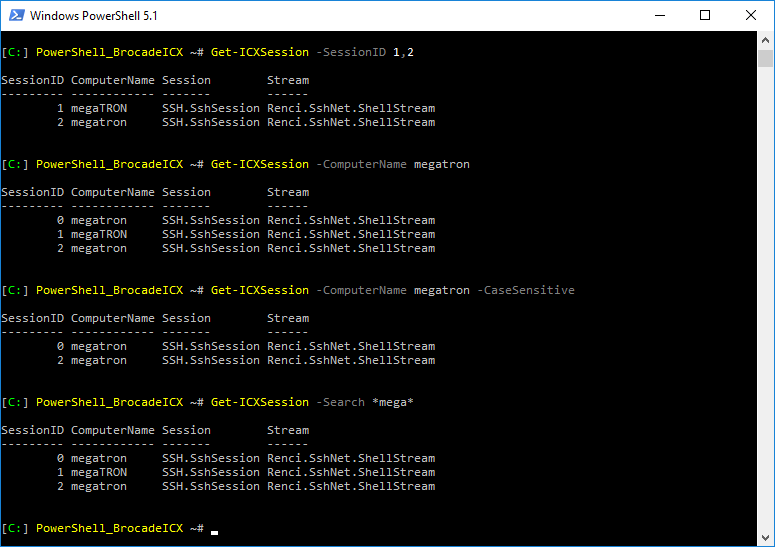
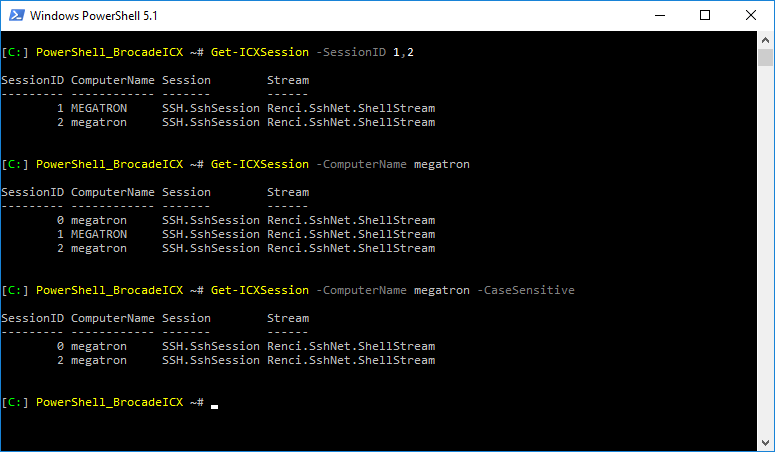
Parameter -Search Removed

Changed region(s): [[0.0, 0.3407, 0.7432, 0.8982], [0.0, 0.0, 1.0, 0.3097], [0.0, 0.9602, 1.0, 1.0]]

diff --git a/Documentation/Function/Get-ICXSession.README.md b/Documentation/Function/Get-ICXSession.README.md
@@ -18,8 +18,6 @@ Get-ICXSession [<CommonParameters>]
 Get-ICXSession [-SessionID] <Int32[]> [<CommonParameters>]
 
 Get-ICXSession [-ComputerName] <String[]> [[-CaseSensitive]] [<CommonParameters>]
-
-Get-ICXSession [-Search] <String> [<CommonParameters>]
 ```
 
 ## Example 1
@@ -37,18 +35,6 @@ SessionID ComputerName Session        Stream
 
 ```powershell
 PS> Get-ICXSession -ComputerName megatron
-
-SessionID ComputerName Session        Stream
---------- ------------ -------        ------
-        0 megatron     SSH.SshSession Renci.SshNet.ShellStream
-        1 megatron     SSH.SshSession Renci.SshNet.ShellStream
-        2 megatron     SSH.SshSession Renci.SshNet.ShellStream
-```
-
-## Example 3
-
-```powershell
-PS> Get-ICXSession -Search *mega*
 
 SessionID ComputerName Session        Stream
 --------- ------------ -------        ------
